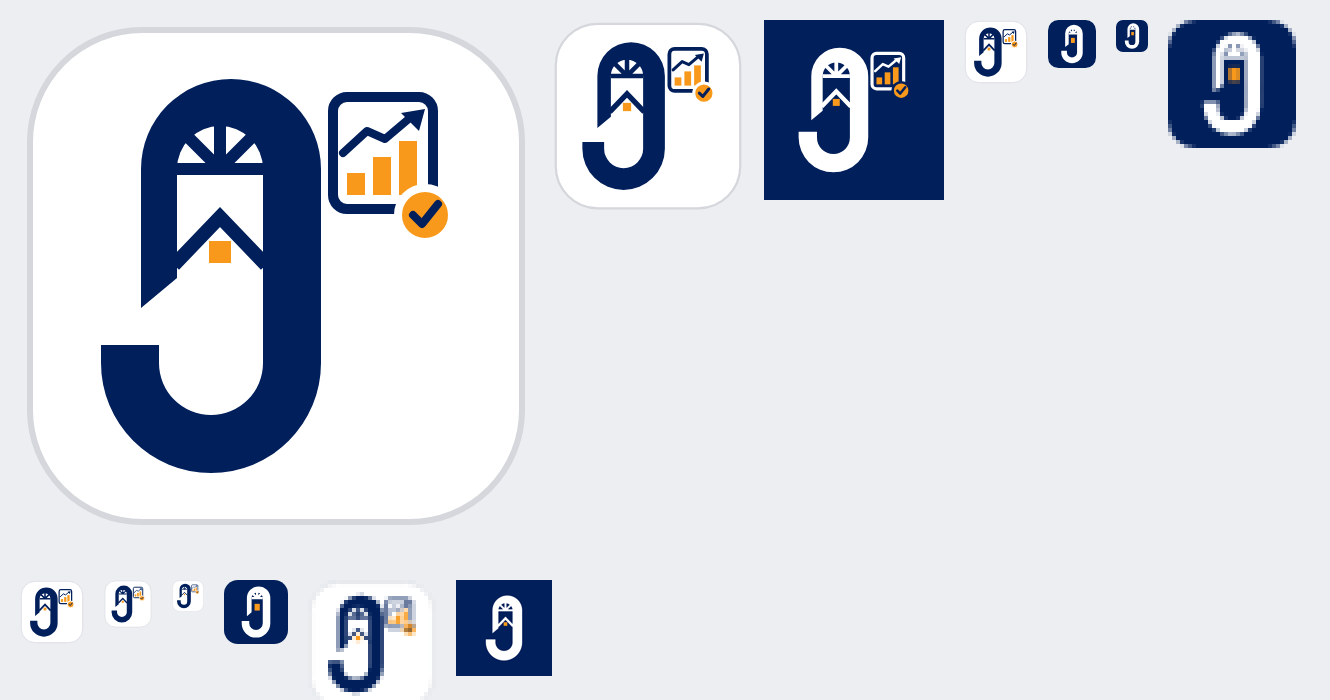
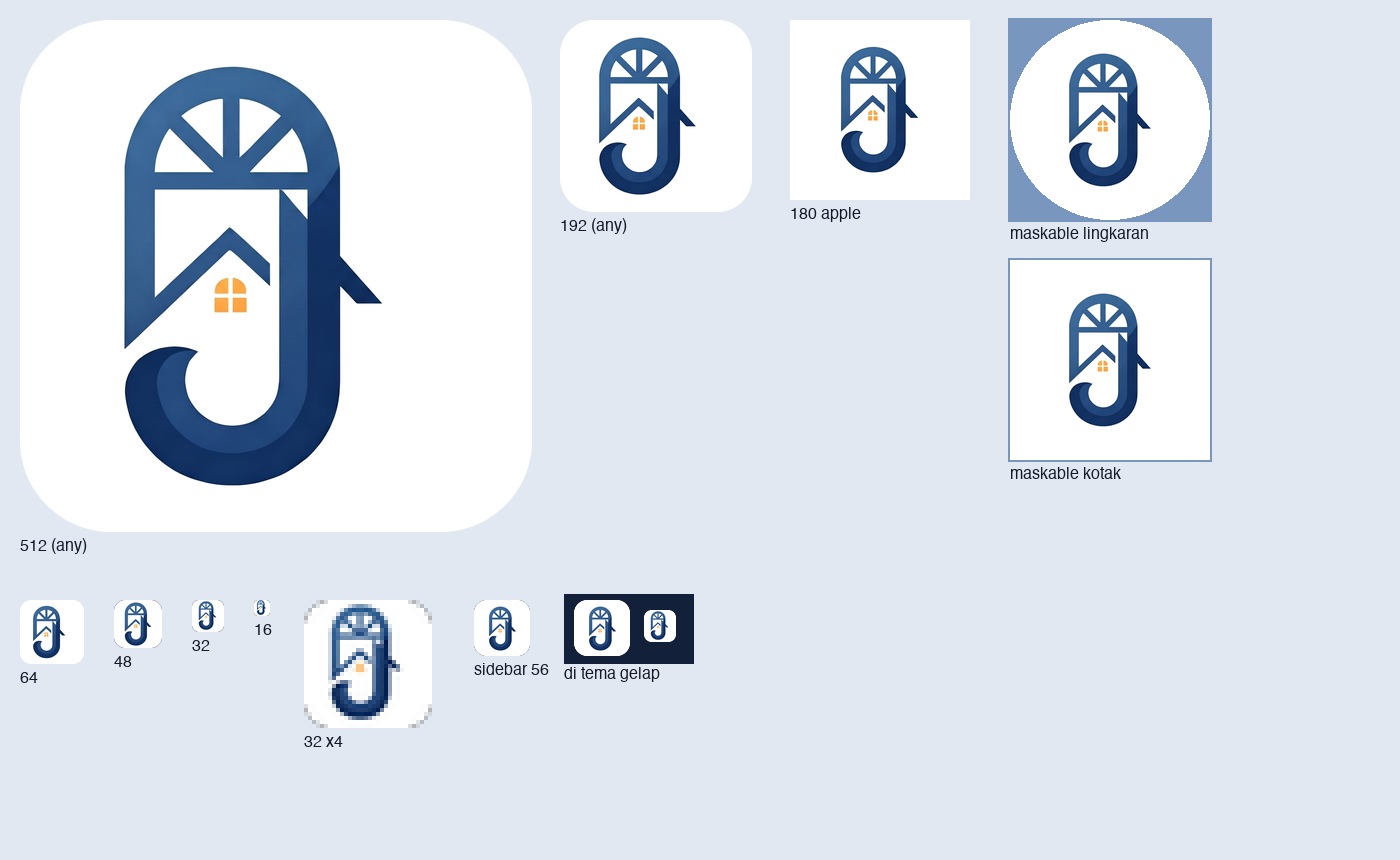
test+docs: tes ikon resmi (piksel sudut, zona aman), dokumen identitas, lembar kontak, cache v4
Claude-Session: https://claude.ai/code/session_01BsRxgw4HLmiPX4m9Gs45No

diff --git a/docs/identitas-aplikasi.md b/docs/identitas-aplikasi.md
@@ -13,23 +13,28 @@ Lembar merek v2 (plan 032, 2816x1536) menggantikan lembar lama untuk semua poton
 | `logo-gelap.png` | kotak Dark Background; latar diratakan jadi satu warna `#001F5B` persis (piksel dekat navy dipaksa navy, tanpa halo JPEG) supaya menyatu dengan bidang login | 621x444 | 520x430 |
 | `logo-horizontal.png` | versi horizontal, latar kertas asli | 893x228 | 1010x205 |
 | `logo-emblem.png` | logo utama dengan tagline, dipotong rapat tanpa lingkaran penuh, latar kertas asli | 579x426 | 545x485 |
-| `ikon.svg` | ikon utama: ubin putih (radius ±22%, tepi abu tipis), monogram J-jendela navy, atap dan jendela amber, badge grafik | viewBox 512 | |
-| `ikon-navy.svg` | sama, ubin navy, J putih (tema gelap, layar utama Android) | viewBox 512 | |
-| `ikon-maskable.svg` | latar penuh navy tanpa sudut, J putih tanpa badge, 85% ukuran (zona aman 80%) | viewBox 512 | |
-| `ikon-mono.svg` | satu warna (hitam) | viewBox 512 | |
-| `favicon.svg` | varian sederhana tanpa badge dan tanpa atap: J-jendela putih, kisi kipas, satu jendela amber, ubin navy; dipakai juga di sidebar 28 px (`assets/nav.js`) | viewBox 512 | |
-| `ikon-192.png`, `ikon-512.png`, `ikon-maskable-512.png` | ikon manifest PWA (any dan maskable terpisah) | 192, 512, 512 | |
-| `apple-touch-icon-180.png` | ikon layar utama iOS, latar penuh navy tanpa transparan (J putih dan badge terbaca di layar utama terang maupun gelap; ubin putih akan menyatu dengan latar terang) | 180 | |
-| `favicon-32.png`, `favicon-48.png` | favicon tab dari `favicon.svg` | 32, 48 | |
-| `ikon-lembar.png` | lembar kontak ikon: 512, 192, 180, 64, 48, 32, pembesaran 4x dari 32 | 1330x700 | |
+| `sumber/ikon-resmi-2000.jpg` | **ikon aplikasi resmi dari pemilik** (JPEG; ubin putih bersudut membulat di atas latar putih kebiruan, monogram J-jendela). Sumber semua ikon di bawah | 2048x2048 | |
+| `ikon-resmi-1024.png` | ubin dipotong rapat tanpa tepi abu, sudut membulat transparan, latar ubin diratakan `#FFFFFF` (noise JPEG dibuang) | 1024x1024 | |
+| `ikon-monogram.png` | monogram saja, latar putih murni, margin 15% di tiap sisi | 1024x1024 | |
+| `ikon-192.png`, `ikon-512.png` | ikon manifest `purpose: any`: ubin resmi, sudut transparan | 192, 512 | |
+| `ikon-maskable-512.png` | `purpose: maskable`: putih penuh tanpa sudut, seluruh monogram di dalam lingkaran zona aman 80% | 512 | |
+| `apple-touch-icon-180.png` | ikon layar utama iOS: putih penuh tanpa transparan, monogram 70% tinggi (iOS membulatkan sendiri) | 180 | |
+| `favicon-16.png`, `favicon-32.png`, `favicon-48.png`, `favicon.ico` | favicon: ubin putih kecil bersudut membulat dengan monogram resmi (16, 32, 48 dalam satu `.ico`) | 16, 32, 48 | |
+| `ikon-monogram-56.png`, `ikon-monogram-112.png` | ikon sidebar 28 px (1x dan 2x): ubin putih bersudut membulat dengan monogram, dipakai `assets/nav.js` | 56, 112 | |
+| `arsip/*.svg` | ikon vektor gambaran sendiri plan 031/032 (`ikon`, `ikon-navy`, `ikon-maskable`, `ikon-mono`, `favicon`); tidak dipakai lagi | viewBox 512 | |
+| `ikon-lembar.png` | lembar kontak ikon: 512, 192, 180, maskable (kotak dan lingkaran), 64, 48, 32, pembesaran 4x dari 32 | | |
 
 **Perbandingan resolusi lama dan baru.** Lembar baru 2816 px (lama 2576 px), tetapi tiap varian di dalamnya tidak lebih besar: logo gelap naik dari 520 ke 621 px lebar (+19%; kini cukup untuk logo login 300 px di layar 2x, sebelumnya kurang), emblem 545 ke 579 px (+6%), sedangkan horizontal turun dari 1010 ke 893 px (-12%) dan tidak lebih tajam. Jadi hasilnya lebih tajam hanya untuk logo gelap di login; potongan lain setara atau sedikit lebih kecil.
 
 **Peringatan resolusi.** Potongan logo masih 500 sampai 900 px lebarnya. Di layar lebar atau dicetak akan terlihat kurang tajam. Pemilik sebaiknya mengunggah berkas asli beresolusi tinggi (SVG, atau PNG minimal 2000 px per varian, satu varian per berkas, latar transparan) untuk menggantikan `logo-gelap.png`, `logo-horizontal.png`, dan `logo-emblem.png`. Nama berkas dan rasio boleh tetap; ubah `width`/`height` di `<img class="lg-logo">` (dan `aspect-ratio` di `.lg-logo`, `assets/style.css`) bila rasionya berbeda.
 
-**Catatan jujur tentang logo.** Logo dibuat generator gambar raster dan punya cacat kecil: segitiga oranye kecil dekat huruf J, huruf A di "JASPER" tertimpa garis zig-zag, ikon kecil di versi horizontal terlalu rapat, dan ikon kilau bintang kecil. Dipakai apa adanya untuk sekarang. Rekomendasi: gambar ulang sebagai vektor (SVG) bersih sebelum logo dipakai resmi atau dicetak. Ikon aplikasi adalah gambar vektor sendiri yang meniru monogram pemilik (bukan jiplakan piksel); versi final sebaiknya digambar desainer.
+**Catatan jujur tentang logo.** Logo dibuat generator gambar raster dan punya cacat kecil: segitiga oranye kecil dekat huruf J, huruf A di "JASPER" tertimpa garis zig-zag, ikon kecil di versi horizontal terlalu rapat, dan ikon kilau bintang kecil. Dipakai apa adanya untuk sekarang. Rekomendasi: gambar ulang sebagai vektor (SVG) bersih sebelum logo dipakai resmi atau dicetak. Ikon aplikasi memakai desain resmi pemilik (plan 033), bukan gambaran sendiri.
 
-**Aturan ikon.** Ruang aman: biarkan minimal 12% sisi kosong di sekeliling monogram pada ubin. Ukuran minimum: 32 px (di bawah 48 px pakai `favicon.svg`/`favicon-*.png`, tanpa badge dan atap, karena badge dan chevron atap menyatu). Varian: putih (`ikon.svg`, bawaan), navy (`ikon-navy.svg`, latar gelap), mono (`ikon-mono.svg`, cetak hitam-putih). Tanpa gradien, bayangan, atau kilau; warna hanya navy, amber, putih, dan abu tepi.
+**Ikon resmi (plan 033).** Sumber: `sumber/ikon-resmi-2000.jpg` (2048x2048 JPEG, bukan vektor). Tepi ubin dideteksi dari piksel (tepi luar 409 sampai 1638, radius sudut ±240), tepi abu tipis dibuang, ubin dipotong 1166 px ke dalam lalu diperkecil ke 1024 (LANCZOS) dengan sudut transparan. **Kejanggalan bawaan desain yang sengaja tidak diubah**: (1) takik segitiga kecil di kanan atas jendela, (2) ujung atap menjorok ke kanan melewati batang J. Keduanya milik pemilik; bila ingin dirapikan, minta versi baru. Untuk cetak atau ukuran besar (di atas 1024 px) sebaiknya ada versi vektor; JPEG punya derau halus.
+
+**Aturan ikon.** Ruang aman: biarkan minimal 12% sisi kosong di sekeliling monogram. Ukuran minimum: 32 px; di 16 px hanya siluet J yang terbaca (kisi kipas jadi bubur), cukup untuk tab. Jangan diregangkan, diwarnai ulang, diberi bayangan atau kilau. Di tema gelap ikon tetap berupa ubin putih bersudut membulat (sidebar memakai tepi `--line` tipis).
+
+**Keputusan favicon.** Monogram penuh masih terbaca di 32 dan 48 px (lengkung, atap, kait J, jendela amber), jadi favicon memakai desain resmi dan `favicon.svg` plan 032 tidak ditautkan lagi (tab modern memilih SVG bila ada, itu akan menampilkan desain lama). Tautan: png 16, 32, 48 lalu `apple-touch-icon`. **`background_color` manifest `#FFFFFF`** (layar splash Android memusatkan ikon di atas warna ini; ikon berlatar putih jadi menyatu tanpa kotak putih di atas navy); `theme_color` tetap navy `#001F5B`.
 
 ## 2. Warna merek (palet resmi di lembar v2)
 
@@ -56,11 +61,11 @@ Konstanta: `window.MH_APP_NAME` dan `window.MH_APP_TAGLINE` di `assets/config.js
 | Tempat | Isi |
 |---|---|
 | Layar login (`.lg-logo` alt, `.lg-tag`), 5 halaman | logo gelap + tagline |
-| Kepala menu samping (`assets/nav.js`) | monogram J-jendela sederhana (`favicon.svg`) 28 px + nama + tagline |
+| Kepala menu samping (`assets/nav.js`) | ikon resmi 28 px (`ikon-monogram-56.png`, 2x `-112`) + nama + tagline |
 | `<title>`, `application-name`, `apple-mobile-web-app-title`, `og:title`, `og:description`, `description` di semua HTML | "Jendela Jasper" atau "{Halaman} · Jendela Jasper" |
-| `manifest.webmanifest` | nama, `short_name`, deskripsi, warna navy, ikon baru |
-| `<link rel="icon">` (SVG, 32, 48) dan `apple-touch-icon` | berkas `assets/brand/` |
-| `sw.js` | cache `mh-shell-v3` (menarik ikon dan logo baru) |
+| `manifest.webmanifest` | nama, `short_name`, deskripsi, `theme_color` navy, `background_color` putih, ikon resmi |
+| `<link rel="icon">` (png 16, 32, 48) dan `apple-touch-icon` | berkas `assets/brand/` |
+| `sw.js` | cache `mh-shell-v4` (menarik ikon resmi) |
 
 Nama halaman dan fitur ("Monitoring Harian", "Great Sales", "Cek Stok", "Kehadiran", "Ranking") tetap sebagai nama halaman. Belum diganti dan di luar cakupan: `upload-tool/` (Apps Script terpisah, judul "Upload Data Monitoring Harian"), judul proyek Sheet dan Apps Script, `README.md`. Tidak ada lagi tempat "belum diganti" di aplikasi web utama.
 

diff --git a/DESIGN.md b/DESIGN.md
@@ -49,7 +49,7 @@ Mode gelap otomatis lewat `prefers-color-scheme`. Setiap warna baru wajib punya 
 - **Isi** `main`: lebar maks 1100 px di tengah ruang kanan, padding 16 px di HP dan 24 px di desktop, jarak antar kartu 12 px. Chip DT di baris sendiri paling atas. Tidak ada tarikan ke atas menimpa header. Penjelasan aturan yang panjang dibungkus `details.how` ("Cara baca") yang tertutup bawaan; informasi tidak dihapus.
 - **Status data** (titik + teks) di header: hijau berdenyut = terbaru, kuning berkedip = memperbarui, merah = gagal. Tombol `i` membuka penjelasan tiga warna.
 - **Login** (plan 026, direvisi plan 031; satu komponen untuk `index`, `great-sales`, `cek-stok`, `kehadiran`, `ranking`; CSS `.lg-*` di `style.css`, perilaku di `util.js`). Tipografis dan asimetris, bukan kartu melayang. HP: bidang atas `.lg-brand` solid `--logo-navy` (#001F5B, sama di terang dan gelap supaya menyatu dengan latar `logo-gelap.png`), berisi logo `assets/brand/logo-gelap.png` (`<img class="lg-logo">`, `width`/`height` 520x430, `alt` "Jendela Jasper", lebar maks 300 px) dan tagline teks HTML `.lg-tag` (`window.MH_APP_TAGLINE`, 14 px, `#D5DFEC` di atas navy 9,1:1). Di bawahnya bidang `--bg` dengan formulir rata kiri (maks 360 px, bukan kartu): judul halaman 18 px/700 (nama halaman, mis. "Monitoring Harian"), label "Kode akses" di atas kolom (bukan placeholder), kolom 52 px tipe `password` (`autocomplete="current-password"`, `autocapitalize="off"`, `spellcheck="false"`) dengan tombol teks "Tampilkan"/"Sembunyikan" 44 px (`aria-pressed`), pesan galat `.lg-err` (`role="alert"`, kolom tidak dikosongkan, `aria-invalid` bersinkron), tombol **Masuk** 52 px radius 6 px amber merek `--warm` dengan teks navy, teks bantu satu kalimat. Memeriksa kode: tombol nonaktif bertulisan "Memeriksa kode…". >= 900 px: dua kolom, kiri bidang merek penuh tinggi (logo maks 480 px di tengah), kanan formulir 360 px. Tanpa gradien, kilau, atau gerak. Motif batang ritme "Tifa" dihapus. Pesan galat kode salah: "Kode tidak cocok. Periksa huruf besar/kecil atau minta kode baru." Mekanisme login dan penyimpanan kode tidak berubah.
-- **Identitas (plan 031)**: nama **Jendela Jasper**, tagline **Monitoring Pencapaian Sales Harian** (`MH_APP_NAME`, `MH_APP_TAGLINE` di `assets/config.js`). Berkas di `assets/brand/` (logo gelap, horizontal, emblem dari lembar v2; ikon vektor monogram J-jendela `ikon.svg`, `ikon-navy.svg`, `ikon-maskable.svg`, `ikon-mono.svg`, `favicon.svg`; PNG 192/512/maskable/180/32/48; plan 032). Palet merek resmi (tertulis di lembar v2): navy `#001F5B`, amber `#F8991C`, abu `#6D6E71` (token `--logo-navy`, `--logo-amber`, `--logo-gray`). Aksen amber hanya di tombol Masuk; monogram J-jendela sederhana 28 px (`favicon.svg`, SVG inline di `nav.js`) di kepala menu samping. **Aturan pakai logo**: ruang bebas di semua sisi minimal setinggi huruf "J"; logo gelap hanya di atas `#001F5B`, versi terang di atas putih/krem; ukuran minimum logo penuh 120 px lebar (ikon 16 px); jangan diregangkan (selalu `aspect-ratio` asli), jangan diberi bayangan, kilau, garis tepi, atau gradien, jangan diwarnai ulang. Biru tema `--brand` (#176DA6) tetap: selisihnya dengan navy merek jauh (kontras 2,2:1), jadi tidak diselaraskan; navy hanya dipakai di login, manifest, `theme-color`, dan ikon.
+- **Identitas (plan 031)**: nama **Jendela Jasper**, tagline **Monitoring Pencapaian Sales Harian** (`MH_APP_NAME`, `MH_APP_TAGLINE` di `assets/config.js`). Berkas di `assets/brand/` (logo gelap, horizontal, emblem dari lembar v2; ikon resmi pemilik `sumber/ikon-resmi-2000.jpg` dan turunannya PNG 192/512/maskable/180/16/32/48 + `favicon.ico`, plan 033; ikon vektor lama di `arsip/`). Palet merek resmi (tertulis di lembar v2): navy `#001F5B`, amber `#F8991C`, abu `#6D6E71` (token `--logo-navy`, `--logo-amber`, `--logo-gray`). Aksen amber hanya di tombol Masuk; ikon resmi 28 px (`ikon-monogram-56.png`, `<img>` di `nav.js`) di kepala menu samping. **Aturan pakai logo**: ruang bebas di semua sisi minimal setinggi huruf "J"; logo gelap hanya di atas `#001F5B`, versi terang di atas putih/krem; ukuran minimum logo penuh 120 px lebar (ikon 16 px); jangan diregangkan (selalu `aspect-ratio` asli), jangan diberi bayangan, kilau, garis tepi, atau gradien, jangan diwarnai ulang. Biru tema `--brand` (#176DA6) tetap: selisihnya dengan navy merek jauh (kontras 2,2:1), jadi tidak diselaraskan; navy hanya dipakai di login, `theme-color`, dan manifest (`background_color` manifest putih mengikuti ikon resmi).
 - **Memuat**: bar progres + perkiraan detik dari rata-rata waktu muat sebelumnya (assets/boot.js). Layar login tidak pernah berkedip kalau kode sudah tersimpan.
 
 ## Komponen
